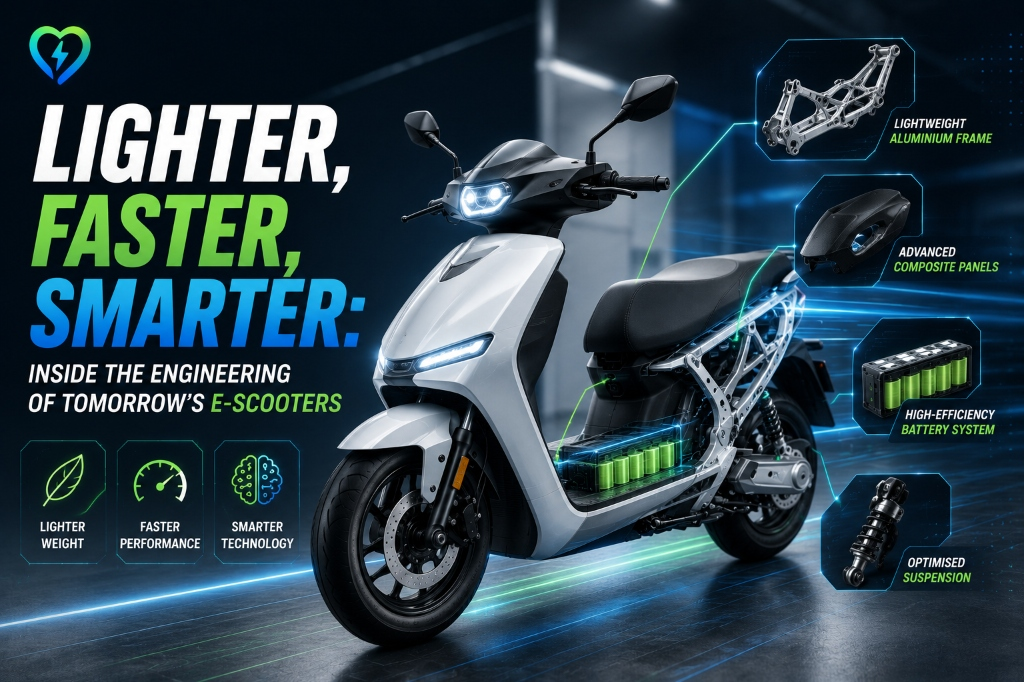
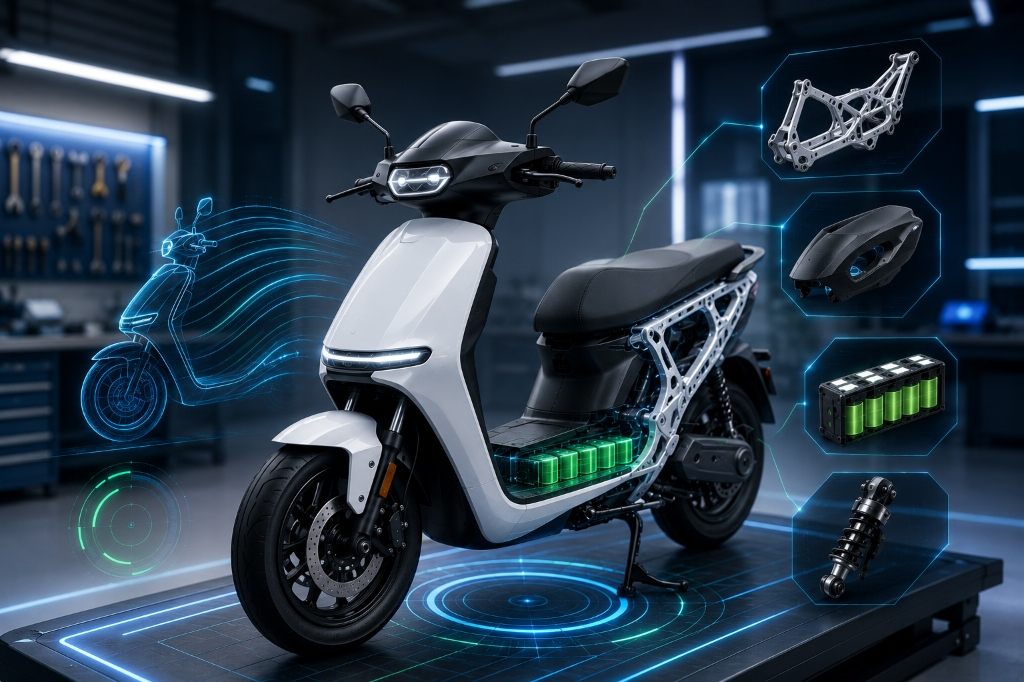
Update ebike-engineering cover to clean infographic (no text overlay) and cardCover to spotlight image (with text overlay)

diff --git a/blog.html b/blog.html
@@ -337,7 +337,7 @@
 <!-- Article 3 -->
 <article data-topic="electric vehicle" class="article-card group bg-white rounded-2xl border border-border overflow-hidden card-hover editorial-shadow">
 <div class="h-56 overflow-hidden relative">
-<img class="w-full h-full object-cover transition-transform duration-500 group-hover:scale-110" data-alt="InnoVibe Care.EV infographic showing a modern electric scooter with callouts pointing to a lightweight aluminium frame, advanced composite panels, a high-efficiency battery system, and optimized suspension." src="ebike_engineering_cover.jpg"/>
+<img class="w-full h-full object-cover transition-transform duration-500 group-hover:scale-110" data-alt="InnoVibe Care.EV infographic showing a modern electric scooter with callouts pointing to a lightweight aluminium frame, advanced composite panels, a high-efficiency battery system, and optimized suspension." src="ebike_engineering_spotlight.jpg"/>
 </div>
 <div class="p-6">
 <div class="flex items-center gap-2 mb-4">

diff --git a/stitch_innovibe_mobility_knowledge_hub/code.html b/stitch_innovibe_mobility_knowledge_hub/code.html
@@ -257,7 +257,7 @@
 <!-- Article 4 -->
 <article class="group bg-white rounded-2xl border border-border overflow-hidden card-hover editorial-shadow">
 <div class="h-56 overflow-hidden relative">
-<img class="w-full h-full object-cover transition-transform duration-500 group-hover:scale-110" data-alt="InnoVibe Care.EV infographic showing a modern electric scooter with callouts pointing to a lightweight aluminium frame, advanced composite panels, a high-efficiency battery system, and optimized suspension." src="ebike_engineering_cover.jpg"/>
+<img class="w-full h-full object-cover transition-transform duration-500 group-hover:scale-110" data-alt="InnoVibe Care.EV infographic showing a modern electric scooter with callouts pointing to a lightweight aluminium frame, advanced composite panels, a high-efficiency battery system, and optimized suspension." src="ebike_engineering_spotlight.jpg"/>
 </div>
 <div class="p-6">
 <div class="flex items-center gap-2 mb-4">

diff --git a/article.html b/article.html
@@ -509,6 +509,7 @@
             author: "Super Admin",
             avatar: "SA",
             cover: "ebike_engineering_cover.jpg",
+            cardCover: "ebike_engineering_spotlight.jpg",
             content: [
                 "The market for electric two-wheelers is expanding at a rate never seen before, revolutionizing both recreational riding and urban commuting. Today’s and especially tomorrow’s e-bikes are more demanding machines, painstakingly designed to be lighter, faster, and smarter than ever before. They are far from being simple bicycles with motors bolted on. This development involves a fundamental rethinking of design, materials, and digital integration rather than merely small tweaks. This results in an experience that is more pleasurable, effective, and seamlessly integrated for the rider.",
                 "<h3>1. The Relentless Pursuit of \"Lighter\"</h3>",